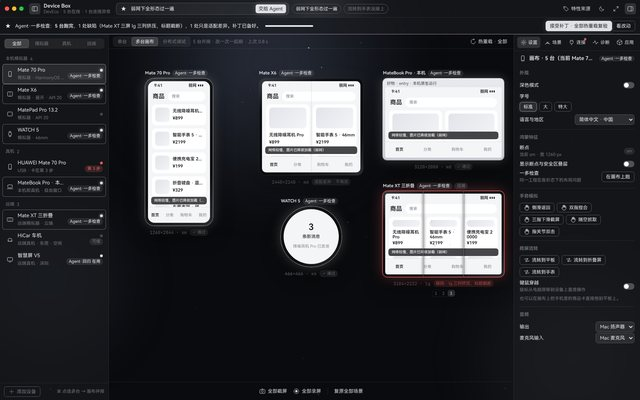
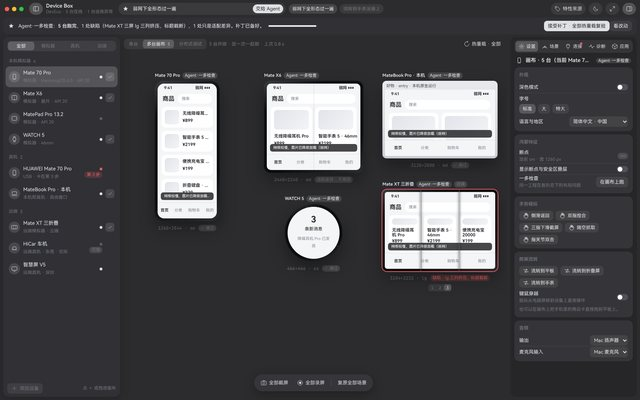
32 Device Box：参照 Device Hub 改视觉，去掉背景光，描边换填充，侧栏、控制条、浮层改磨砂玻璃，检查器分组卡

diff --git a/demos/32-device-box/index.html b/demos/32-device-box/index.html
@@ -424,7 +424,106 @@
   .frame .halo{position:absolute;inset:-1px;border-radius:inherit;pointer-events:none;z-index:2;opacity:var(--hv,0);
     background:radial-gradient(180px circle at var(--hx,50%) var(--hy,50%),rgba(var(--glow),.55),transparent 70%);
     -webkit-mask:linear-gradient(#000 0 0) content-box,linear-gradient(#000 0 0);-webkit-mask-composite:xor;mask-composite:exclude;padding:1.5px;transition:opacity .2s}
-  @media (prefers-reduced-motion:reduce){.amb i,.frame.agent::after,.agentbar::after,.toast::after,.dot.busy{animation:none}}
+
+  /* =====================================================================
+     10-27 第三版（参照 Xcode 27 Device Hub）：去掉背景光；描边换成填充；
+     侧栏、底部控制条、浮层用磨砂玻璃，检查器分组做成实心圆角卡
+     ===================================================================== */
+  body{--win:#2C2C2F;--cv:#2C2C2F;--inspbg:#262629;--card:#353539;--fill:rgba(255,255,255,.07);--fill-2:rgba(255,255,255,.12);--fill-3:rgba(255,255,255,.18);
+    --frost:rgba(52,52,56,.62);--frost-hi:rgba(58,58,62,.78);background:#1B1B1D}
+  :root[data-theme="light"] body{--win:#F2F2F4;--cv:#ECECEE;--inspbg:#F7F7F8;--card:#FFFFFF;--fill:rgba(0,0,0,.045);--fill-2:rgba(0,0,0,.075);--fill-3:rgba(0,0,0,.11);
+    --frost:rgba(255,255,255,.62);--frost-hi:rgba(255,255,255,.8);background:#DADADD}
+  .amb,#dust,.frame .halo{display:none!important}
+  .lit,.dev.lit,.btn.lit,.chip.lit,.ib.lit{background-image:none!important}
+  .win{background:var(--win)}
+  .tb{background:transparent;-webkit-backdrop-filter:none;backdrop-filter:none;border-bottom:0}
+  .body{padding:0 8px 8px 8px;gap:0}
+  /* 侧栏：浮起的磨砂玻璃 */
+  .side{background:var(--frost);-webkit-backdrop-filter:blur(40px) saturate(180%);backdrop-filter:blur(40px) saturate(180%);border:0;border-radius:14px;box-shadow:0 6px 24px rgba(0,0,0,.18);position:relative;z-index:2}
+  .side-ft{border-top:0}
+  /* 画布：实心中性底 */
+  .canvas{position:relative;background:var(--cv)}
+  .cv-bar{border-bottom:0}
+  .stage{padding-bottom:84px}
+  /* 检查器：实心底 + 分组卡片 */
+  .insp{background:var(--inspbg);-webkit-backdrop-filter:none;backdrop-filter:none;border:0;border-radius:14px;margin-left:8px}
+  .insp-tabs{border-bottom:0;margin:8px 10px 0;padding:3px;border-radius:10px;background:var(--fill)}
+  .insp-tabs button{height:26px}
+  .insp-tabs button.on{background:var(--fill-3)}
+  .insp-body{padding:4px 10px 18px}
+  .sec,.sec:last-child{border:0;background:var(--card);border-radius:12px;padding:10px 12px;margin-bottom:8px}
+  :root[data-theme="light"] .sec{box-shadow:0 1px 2px rgba(0,0,0,.04)}
+  .sec .row+.row{border-top:1px solid var(--fill)}
+  .rep{border-top:0}.rep+.rep{border-top:1px solid var(--fill)}
+  /* 控件：填充，不描边 */
+  .ib{background:transparent}.ib:hover{background:var(--fill)}.ib.on{background:var(--fill-2)}
+  .tb .ib{background:var(--fill);border-radius:999px;height:30px;min-width:30px;padding:0 9px}
+  .tb .ib:hover{background:var(--fill-2)}.tb .ib.on{background:var(--fill-3)}
+  .ask{border:0;background:var(--fill);border-radius:999px}
+  .ask:focus-within{box-shadow:none;background:var(--fill-2)}
+  .ask .go{border-radius:999px;box-shadow:none}
+  .preset{border:0;background:var(--fill);border-radius:999px}
+  .preset:hover{background:var(--fill-2)}
+  .seg{background:var(--fill);border-radius:9px}
+  .seg button{border-radius:7px}
+  .seg button.on{background:var(--fill-3);box-shadow:none}
+  :root[data-theme="light"] .seg button.on{background:#fff;box-shadow:0 1px 2px rgba(0,0,0,.08)}
+  .dev{border-radius:10px;padding:7px 8px}
+  .dev:hover{background-color:var(--fill)}
+  .dev.sel,.dev.multi,.dev.sel.multi{box-shadow:none}
+  .dev.sel{background-color:var(--fill-3)}
+  .dev .ic{width:28px;height:28px;border-radius:50%;background:var(--fill-2);align-items:center;justify-self:center}
+  .dev{grid-template-columns:28px minmax(0,1fr) auto 22px}
+  .dev .add.in{box-shadow:none;background:var(--fill-2)}
+  .dot.run{box-shadow:none}
+  .pill,.pill.ai,.pill.ok,.pill.warn{box-shadow:none;background:var(--fill-2)}
+  .btn,.chip{border:0;background-color:var(--fill);border-radius:8px}
+  .btn:hover,.chip:hover{box-shadow:none;background-color:var(--fill-2)}
+  .chip.on{background-color:var(--fill-3);box-shadow:none;color:var(--ui-fg)}
+  .btn.ai,.btn.primary{box-shadow:none}
+  .btn.danger{background:color-mix(in srgb,var(--err) 16%,transparent);color:var(--err)}
+  select{border:0;background:var(--fill);border-radius:7px}
+  .callout,.callout.ai{box-shadow:none;background:var(--fill)}
+  .card{border:0;background:var(--card);-webkit-backdrop-filter:none;backdrop-filter:none}
+  .log,.hlog{border:0;background:var(--fill)}
+  :root[data-theme="light"] .log,:root[data-theme="light"] .hlog{background:var(--fill)}
+  .tl .ev{box-shadow:none;background:var(--fill-2)}
+  .tl .ev.wait{border:0;background:var(--fill)}
+  .tl .ev.miss{border:0;background:color-mix(in srgb,var(--err) 18%,transparent)}
+  .tl .lane{background:var(--fill)}
+  .step .n{border:0;background:var(--fill-2)}
+  .step.run .n{background:var(--fill-3)}
+  .ghost,.ghost.all{border:0;background:var(--fill);box-shadow:none}
+  .ghost:hover{background:var(--fill-2);box-shadow:none}
+  .ghost .gi{background:var(--fill-2)}
+  .slot{border:0;background:var(--fill)}
+  .trisw{box-shadow:none;background:var(--fill)}
+  .src.x{box-shadow:none;background:var(--fill-3)}
+  .src{box-shadow:none}
+  .app-row i,.app-row i[style]{box-shadow:none!important}
+  /* 底部控制条：浮在画布上的磨砂胶囊（同 Device Hub） */
+  .ctl{position:absolute;left:50%;bottom:14px;transform:translateX(-50%);height:auto;border:0;padding:5px 6px;gap:2px;border-radius:999px;
+    background:var(--frost-hi);-webkit-backdrop-filter:blur(30px) saturate(180%);backdrop-filter:blur(30px) saturate(180%);box-shadow:0 8px 28px rgba(0,0,0,.28);white-space:nowrap;z-index:3}
+  .ctl .sep{width:1px;height:18px;background:var(--fill-2);margin:0 4px}
+  .ctl .ib{height:32px;min-width:32px;border-radius:999px;padding:0 10px}
+  /* 浮层：磨砂玻璃，不描边 */
+  .menu,.legend,.modal,.toast{border:0;background:var(--frost-hi);box-shadow:0 12px 36px rgba(0,0,0,.32)}
+  .agentbar{background:var(--frost);margin:0 8px 6px;border-radius:12px}
+  .agentbar::after,.toast::after{display:none}
+  .agentbar .bar i{box-shadow:none}
+  /* 设备：去掉外圈描边；Agent 在用时用一道光扫过屏幕（填充，不是描边） */
+  .frame{box-shadow:0 18px 40px rgba(0,0,0,.35)}
+  .frame.pass,.frame.agent{box-shadow:0 18px 40px rgba(0,0,0,.35)}
+  .frame.agent::after{display:none}
+  .frame.agent .scr::before{content:'';position:absolute;inset:0;z-index:5;pointer-events:none;
+    background:linear-gradient(105deg,transparent 35%,rgba(255,255,255,.55) 50%,transparent 65%);background-size:250% 100%;mix-blend-mode:soft-light;animation:scan 1.6s ease-in-out infinite}
+  .frame.agent .scr::after{content:'验证中';position:absolute;right:8px;bottom:46px;z-index:6;font-size:10px;padding:2px 8px;border-radius:999px;color:#fff;background:rgba(30,30,32,.55);-webkit-backdrop-filter:blur(10px);backdrop-filter:blur(10px)}
+  @keyframes scan{from{background-position:150% 0}to{background-position:-50% 0}}
+  .frame.flag{box-shadow:0 0 0 2px var(--err),0 18px 40px rgba(0,0,0,.35)}
+  .side{width:292px}
+  .toast{bottom:84px}
+  body.m-grid .dev .pill.ai{display:none}
+  @media (prefers-reduced-motion:reduce){.frame.agent .scr::before,.amb i,.frame.agent::after,.agentbar::after,.toast::after,.dot.busy{animation:none}}
 </style>
 </head>
 <body>
@@ -572,7 +671,7 @@
   },{passive:true});
 
   /* 环境光尘：慢慢上浮，靠近指针时变亮 */
-  var P=[]; for(var i=0;i<(reduce?0:90);i++) P.push(seed({}));
+  var P=[]; /* 背景光尘已按 10-27 意见关掉 */
   function seed(p){p.x=Math.random()*innerWidth;p.y=Math.random()*innerHeight;p.r=Math.random()*1.3+.3;p.vy=-(Math.random()*.12+.03);p.vx=(Math.random()-.5)*.06;p.a=Math.random()*.35+.05;p.t=Math.random()*6.28;return p}
   /* 迸发粒子 */
   var B=[];
